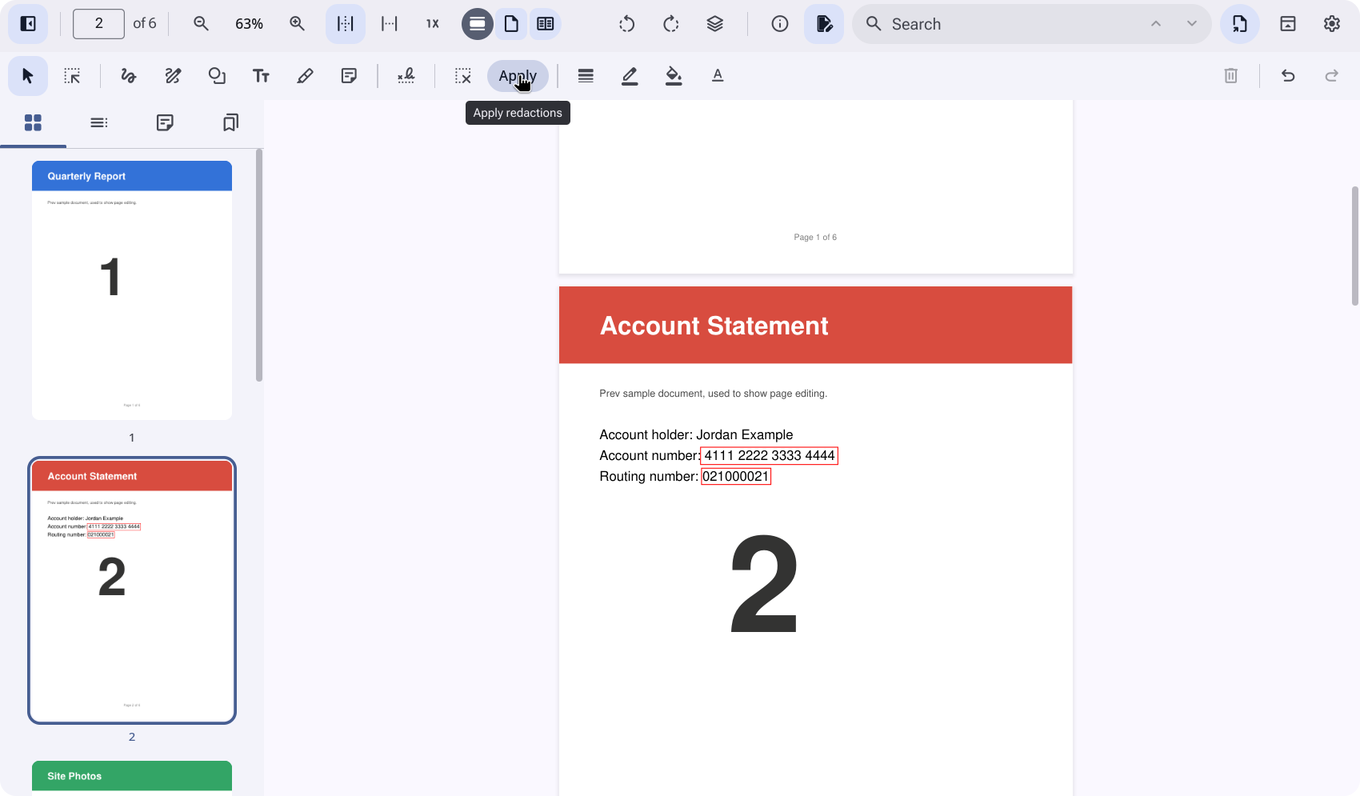
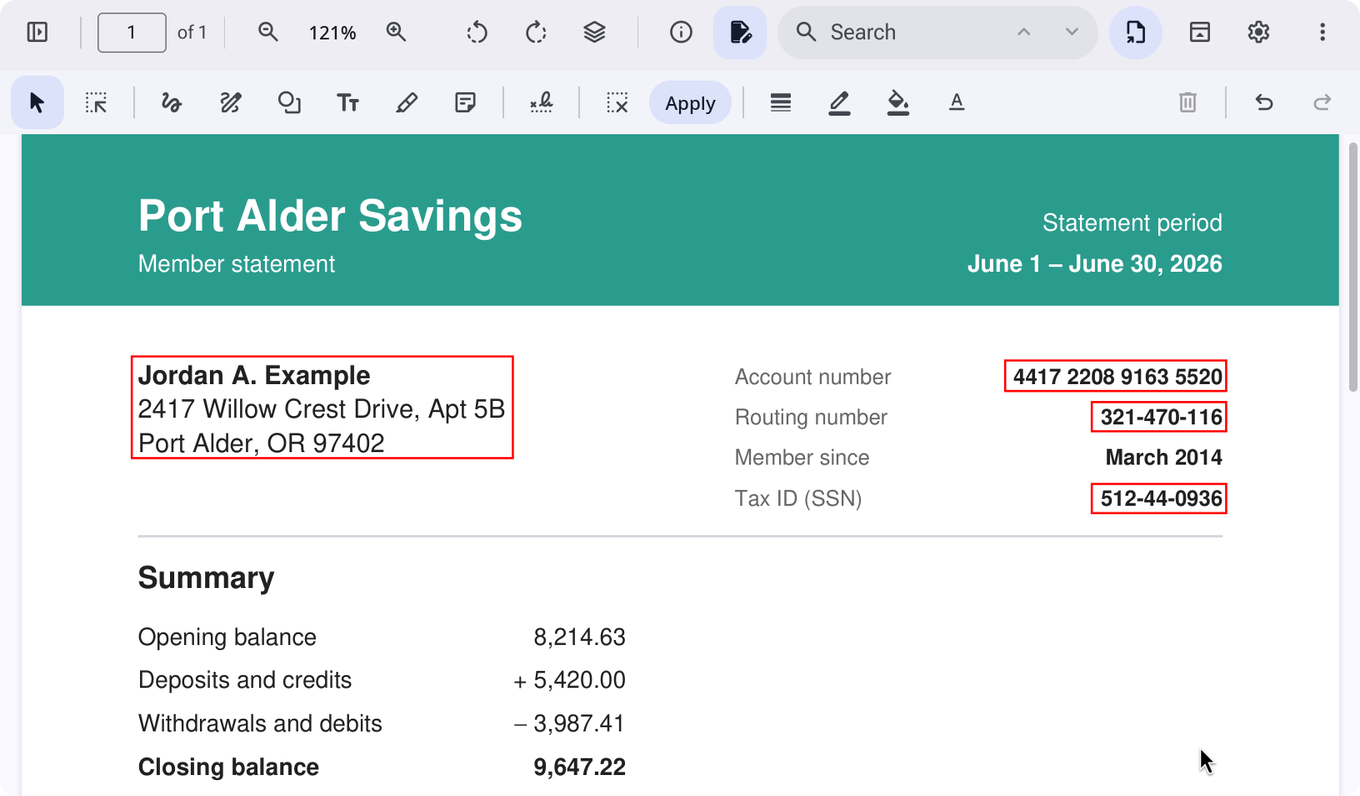
docs: clearer page, redaction and drag pictures
- Show page dragging in a realistic annual report, mid-drag
- Show redaction on an account statement, marked and applied
- Add a GIF of a picture dragged from prev.run onto a PDF in prev
- Use them in the guide and on the website

diff --git a/site/style.css b/site/style.css
@@ -124,6 +124,7 @@ h3 { font-size: 20px; margin: 0 0 6px; font-weight: 650; }
 
 .gallery { display: grid; grid-template-columns: repeat(2, 1fr); gap: 24px; margin-top: 40px; }
 figure { margin: 0; }
+figure.wide { margin-top: 40px; }
 figcaption { margin-top: 10px; text-align: center; color: var(--on-surface-variant); font-size: 15px; }
 
 .table { overflow-x: auto; border-radius: 16px; border: 1px solid var(--outline-variant); }

diff --git a/docs/GUIDE.md b/docs/GUIDE.md
@@ -4,8 +4,9 @@ This guide walks through what prev does, in the order you are likely to
 meet it. Keyboard shortcuts are listed in the [README](../README.md#keyboard-shortcuts).
 
 <sub>Documents shown: NIST SP 800-63-3, a US government publication in the
-public domain, and a sample form, sample pages and a landscape image made
-for prev.</sub>
+public domain, and a sample form, a sample annual report, a sample
+account statement and a landscape image, all fictional and made for
+prev.</sub>
 
 ## Opening files
 
@@ -107,7 +108,7 @@ Create Signature offers three ways in:
 
 ## Editing pages
 
-![Dragging a page to a new place in the page thumbnails](screenshots/pages.png)
+![Page 3 of an annual report being dragged below page 4 in the page thumbnails, with a line where it will go](screenshots/pages.png)
 
 In the page thumbnails, click a page to select it, Ctrl+click to add
 pages and Shift+click to select a range. Then:
@@ -131,7 +132,7 @@ Select All Pages and Delete. Every page edit can be undone.
 
 ## Redacting
 
-![An account number and a routing number marked for redaction](screenshots/redaction.png)
+![A statement with the name and address, account and routing numbers and tax ID marked for redaction, and Apply in the markup bar](screenshots/redaction.png)
 
 The Redact tool marks what should go: drag a box over it, or select text
 first and then pick the tool. Marks are ordinary annotations until you
@@ -140,6 +141,8 @@ drawings under each mark from the file and draws black boxes in their
 place. The next save rewrites the whole file, so no earlier revision
 keeps the content, and prev deletes the earlier versions of the file it
 kept. This cannot be undone.
+
+![The same statement after applying: black boxes where the marked details were](screenshots/redaction-applied.png)
 
 ## Exporting
 
@@ -213,6 +216,8 @@ or twice as sharp; very long documents are scaled down to fit the
 16,383 pixel height some formats allow.
 
 ## Drag and drop
+
+![Dragging a screenshot from prev's website, prev.run, in a browser onto a page of a PDF open in prev, where it lands as a picture, selected](screenshots/drag-from-browser.gif)
 
 Drag and drop works both ways: things dragged into prev land where you
 let go, and pages, text, areas and images drag out of prev to other prev
